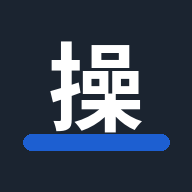
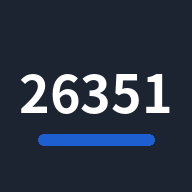
图标改为26351，电脑录入改为下载文件

Changed region(s): [[0.0938, 0.1875, 0.9062, 0.7188], [0.0938, 0.6875, 0.9062, 0.8125]]

diff --git a/cx26351/index.html b/cx26351/index.html
@@ -9,7 +9,7 @@
 <meta name="apple-mobile-web-app-title" content="26351操行分">
 <meta name="apple-mobile-web-app-status-bar-style" content="black">
 <title>26351操行分</title>
-<link rel="manifest" href="manifest.webmanifest"><link rel="apple-touch-icon" href="icon-192.png"><link rel="icon" href="icon-192.png">
+<link rel="manifest" href="manifest.webmanifest?v=2"><link rel="apple-touch-icon" sizes="180x180" href="apple-touch-icon.png?v=2"><link rel="icon" href="icon-192.png?v=2">
 <style>
 :root{--ink:#1B2430;--muted:#5B6573;--line:#E2E6EB;--line2:#D5DAE1;--bg:#F4F6F8;--card:#FFFFFF;--blue:#1D5FD1;--blue-l:#E8F0FD;--orange:#C2410C;--orange-l:#FDEEE6;--green:#1F7A4D;--radius:12px;
   --font:"Microsoft YaHei","PingFang SC","Hiragino Sans GB","Noto Sans CJK SC","Noto Sans SC",system-ui,sans-serif}
@@ -1495,6 +1495,7 @@ function copyText(text) {
   var ta = document.createElement('textarea'); ta.value = text; ta.style.position = 'fixed'; ta.style.opacity = '0'; document.body.appendChild(ta); ta.select();
   var ok = false; try { ok = document.execCommand('copy'); } catch (e) { } ta.remove(); return Promise.resolve(ok);
 }
+function isDesktop() { try { return !/Android|iPhone|iPad|iPod|Mobile|HarmonyOS/i.test(navigator.userAgent) && window.matchMedia('(pointer:fine)').matches; } catch (e) { return false; } }
 function stuById(id) { for (var i = 0; i < S.students.length; i++) if (S.students[i].id === id) return S.students[i]; return null; }
 function stuName(id) { var s = stuById(id); return s ? s.name : '(未知)'; }
 function curYm() { return CX.ymOf(CX.today()); }
@@ -1600,8 +1601,11 @@ function recSendView() {
   else {
     var days = {}; un.forEach(function (r) { days[r.d] = (days[r.d] || 0) + 1; });
     o += '<p>有 <b class="minus">' + un.length + '</b> 条记录还没发送（' + Object.keys(days).sort().map(function (d) { return CX.fmtD(d) + ' ' + days[d] + '条'; }).join('，') + '）</p>' +
-      '<div class="btns" style="flex-direction:column;align-items:stretch"><button class="btn lg pri" data-act="sendShare">' + icon('send') + ' 生成记录包，分享到微信</button>' +
-      '<button class="btn" data-act="sendCopy">复制为文字（粘贴到微信发送）</button><button class="btn" data-act="sendDownload">只下载文件</button></div>' +
+      (isDesktop() ?
+        '<div class="btns" style="flex-direction:column;align-items:stretch"><button class="btn lg pri" data-act="sendDownload">' + icon('send') + ' 生成记录包文件（再用电脑微信发给班主任）</button>' +
+        '<button class="btn" data-act="sendCopy">复制为文字（粘贴到微信发送）</button></div>' :
+        '<div class="btns" style="flex-direction:column;align-items:stretch"><button class="btn lg pri" data-act="sendShare">' + icon('send') + ' 生成记录包，分享到微信</button>' +
+        '<button class="btn" data-act="sendCopy">复制为文字（粘贴到微信发送）</button><button class="btn" data-act="sendDownload">只下载文件</button></div>') +
       '<p class="mut small" style="margin-bottom:0">发出去后会标记为“已发送”。如果没发成功，可在下面“发送记录”里重新发送，班主任电脑会自动去重。</p>';
   }
   o += '</div>';
@@ -1617,7 +1621,7 @@ function recMoreView() {
   return '<div class="card"><h2>更新名单和规则</h2><p class="mut small">班主任改了名单或规则后，会发来新的「配置包」。' + (S.meta.configAt ? '当前配置：' + h(S.meta.configAt.slice(0, 16).replace('T', ' ')) : '') + '</p>' + cfgImportBox() + '</div>' +
     '<div class="card"><h2>代码速查</h2><input class="inp" placeholder="搜代码或名称" data-on="codeSearch"><div class="codelist" id="codeSearchList">' + codeListHtml(rules, '') + '</div></div>' +
     '<div class="card"><h2>学号对照</h2><div class="pick">' + CX.activeStudents(S).map(function (s) { return '<button disabled><b>' + s.no + '</b> ' + h(s.name) + '<small>' + (s.day ? '走读' : h(s.dorm || '')) + '</small></button>'; }).join('') + '</div></div>' +
-    '<div class="card"><h2>每天怎么用</h2><ol style="margin:0;padding-left:20px;line-height:1.9"><li>拿到当天的各张登记表（值日、卫生、请假、作业、惩罚落实、宿舍长报的）。</li><li>「录入」：选登记表和时段，输入学号和代码，点「记录」。多人同一件事，学号用空格隔开。</li><li>录完点「发送 → 生成记录包，分享到微信」，发给班主任。</li><li>录完的纸表右上角勾「已录入」并签名。</li></ol></div>' +
+    '<div class="card"><h2>每天怎么用</h2><ol style="margin:0;padding-left:20px;line-height:1.9"><li>拿到当天的各张登记表（值日、卫生、请假、作业、惩罚落实、宿舍长报的）。</li><li>「录入」：选登记表和时段，输入学号和代码，点「记录」。多人同一件事，学号用空格隔开。</li><li>录完点「发送」生成记录包，用微信发给班主任（电脑上录的，把保存的文件用电脑微信发过去）。</li><li>录完的纸表右上角勾「已录入」并签名。</li></ol></div>' +
     '<div class="card"><h2>这台手机</h2><p class="mut small">录入人：' + h(D.name) + '。本机共 ' + S.records.length + ' 条记录。</p><div class="btns"><button class="btn" data-act="renameRec">修改录入人</button><button class="btn" data-act="cleanSent">清理30天前已发送的记录</button><button class="btn danger" data-act="resetDevice">重置这台设备</button></div>' +
     '<p class="mut small">苹果手机请用 Safari 打开，并点「分享 → 添加到主屏幕」，这样数据不会被清理。不要在微信里直接打开。</p></div>';
 }
@@ -2413,7 +2417,8 @@ var ACT = {
   sentOk: function () { if (V.pendingSend) markSent(V.pendingSend.ids, V.pendingSend.pid); V.pendingSend = null; closeModal(); toast('已标记为已发送'); },
   resend: function (a) {
     var p = (D.pkgs || []).filter(function (x) { return x.id === a.dataset.id; })[0]; if (!p) return;
-    var pkg = makePkg(p.ids); shareFile(new Blob([JSON.stringify(pkg)], { type: 'text/plain' }), pkgName(pkg)).then(function (res) { if (res) toast('已重新生成'); });
+    var pkg = makePkg(p.ids), blob = new Blob([JSON.stringify(pkg)], { type: 'text/plain' });
+    (isDesktop() ? download(blob, pkgName(pkg)) : shareFile(blob, pkgName(pkg))).then(function (res) { if (res) toast('已重新生成'); });
   },
   cfgPaste: function () { CX.decodeAny(document.getElementById('cfgText').value).then(applyCfgObj, function (e) { toast(e.message); }); },
   renameRec: function () { modal('<h2>修改录入人</h2><input class="inp" id="recname" value="' + h(D.name) + '" autofocus><div class="btns" style="margin-top:14px"><button class="btn pri" data-act="renameOk">确定</button><button class="btn" data-act="closeModal">取消</button></div>'); },

diff --git a/cx26351/sw.js b/cx26351/sw.js
@@ -1,4 +1,4 @@
-var C='cx26351-1793597876';
+var C='cx26351-1793690609';
 self.addEventListener('install',function(e){e.waitUntil(caches.open(C).then(function(c){return c.addAll(['./','./index.html','./manifest.webmanifest','./icon-192.png']);}).then(function(){return self.skipWaiting();}));});
 self.addEventListener('activate',function(e){e.waitUntil(caches.keys().then(function(ks){return Promise.all(ks.filter(function(k){return k!==C;}).map(function(k){return caches.delete(k);}));}).then(function(){return self.clients.claim();}));});
 self.addEventListener('fetch',function(e){if(e.request.method!=='GET')return;e.respondWith(fetch(e.request).then(function(r){var cp=r.clone();caches.open(C).then(function(c){c.put(e.request,cp);});return r;}).catch(function(){return caches.match(e.request,{ignoreSearch:true}).then(function(m){return m||caches.match('./index.html');});}));});
